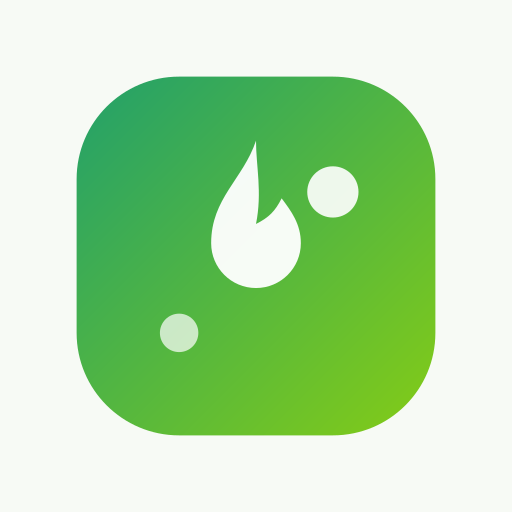
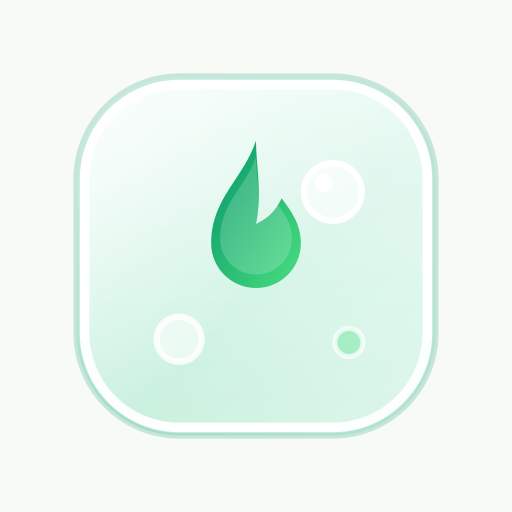
fix: AI analiz hata diyagnostiği + istemci indirme + demo kota; ana ikon beyaz-yeşil Glassmorphism
- ai-capture: kod bazlı hata mesajları (401/413/415/ağ), gerçek retry, iframe kamera ipucu
- downscaleImage: upload öncesi 1600px/JPEG0.85 (413 riski kalkar, hızlanır)
- analyze-photo: demo hesaplara 40/gün kota (ortak oturum bloklanması giderildi)
- icon.svg + 5 PNG: beyaz-yeşil Glassmorphism redesign; sw CACHE v3
- i18n tr/en 5 yeni anahtar (parite doğrulandı)

diff --git a/src/components/kaloriai/ai-capture.tsx b/src/components/kaloriai/ai-capture.tsx
@@ -31,6 +31,37 @@ type ErrorKind = "quota" | "notfood" | "generic" | null;
 /** Local date → YYYY-MM-DD */
 const fmtDate = (d: Date = new Date()) => d.toLocaleDateString("en-CA");
 
+// Upload öncesi istemci taraflı küçültme: telefon fotoğrafları (3-8MB) 1600px JPEG'e
+// iner → daha hızlı AI turu, 413 (10MB) riski ortadan kalkar, mobil veri tasarrufu.
+const MAX_EDGE_PX = 1600;
+const MAX_RAW_BYTES = 2.5 * 1024 * 1024;
+
+async function downscaleImage(b: Blob): Promise<Blob> {
+  if (b.type === "image/jpeg" && b.size <= MAX_RAW_BYTES) return b; // zaten ideal
+  let bmp: ImageBitmap | null = null;
+  try {
+    bmp = await createImageBitmap(b, { imageOrientation: "from-image" });
+  } catch {
+    return b; // decode edilemedi → orijinali dene (sunucu 415 verirse net hata)
+  }
+  const scale = Math.min(1, MAX_EDGE_PX / Math.max(bmp.width, bmp.height));
+  const w = Math.max(1, Math.round(bmp.width * scale));
+  const h = Math.max(1, Math.round(bmp.height * scale));
+  const canvas = document.createElement("canvas");
+  canvas.width = w;
+  canvas.height = h;
+  const ctx = canvas.getContext("2d");
+  if (!ctx) {
+    bmp.close();
+    return b;
+  }
+  ctx.drawImage(bmp, 0, 0, w, h);
+  bmp.close();
+  const out = await new Promise<Blob | null>((res) => canvas.toBlob(res, "image/jpeg", 0.85));
+  if (!out || out.size >= b.size) return b;
+  return out;
+}
+
 export function AiCapture({
   open,
   onClose,
@@ -51,6 +82,10 @@ export function AiCapture({
   const [previewUrl, setPreviewUrl] = useState<string | null>(null);
   const [cameraError, setCameraError] = useState(false);
   const [errorKind, setErrorKind] = useState<ErrorKind>(null);
+  const [errMsg, setErrMsg] = useState<string | null>(null);
+  const [isIframe] = useState(
+    () => typeof window !== "undefined" && window.self !== window.top
+  );
   const [meal, setMeal] = useState<string>(
     defaultMealType && (DEFAULT_MEAL_TYPES as readonly string[]).includes(defaultMealType)
       ? defaultMealType
@@ -103,9 +138,15 @@ export function AiCapture({
 
   const applyBlob = useCallback(
     (b: Blob) => {
-      setPreview(b);
-      setBlob(b);
       setErrorKind(null);
+      setErrMsg(null);
+      setPreview(b); // hemen önizle (büyütme arkada sürer)
+      downscaleImage(b)
+        .then((small) => {
+          setBlob(small);
+          if (small !== b) setPreview(small);
+        })
+        .catch(() => setBlob(b));
     },
     [setPreview]
   );
@@ -144,6 +185,7 @@ export function AiCapture({
     setPreview(null);
     setBlob(null);
     setErrorKind(null);
+    setErrMsg(null);
   };
 
   const analyze = useMutation({
@@ -176,8 +218,17 @@ export function AiCapture({
           setErrorKind("notfood");
           return;
         }
+        setErrorKind("generic");
+        // Kullanıcının ne yapacağını bilmesi için kod bazlı net mesajlar:
+        if (err.code === "UNAUTHORIZED" || err.status === 401) setErrMsg(dict.ai.errAuth);
+        else if (err.code === "FILE_TOO_LARGE" || err.status === 413) setErrMsg(dict.ai.errSize);
+        else if (err.code === "FILE_TYPE" || err.status === 415) setErrMsg(dict.ai.errType);
+        else setErrMsg(null); // → genel mesaj
+        return;
       }
+      // fetch ağ hatası (TypeError: Failed to fetch vb.)
       setErrorKind("generic");
+      setErrMsg(dict.ai.errNetwork);
     },
   });
 
@@ -234,6 +285,11 @@ export function AiCapture({
                 <ImagePlus className="h-6 w-6" aria-hidden />
                 <span className="text-xs">{dict.today.takePhotoSub}</span>
               </button>
+              {cameraError && isIframe && (
+                <p className="rounded-lg border border-amber-500/30 bg-amber-500/10 p-2.5 text-xs text-amber-600 dark:text-amber-400">
+                  {dict.ai.camIframeHint}
+                </p>
+              )}
               <input
                 ref={fileRef}
                 type="file"
@@ -297,7 +353,7 @@ export function AiCapture({
                       ? dict.ai.quotaDone
                       : errorKind === "notfood"
                         ? dict.ai.notFood
-                        : dict.ai.failed}
+                        : (errMsg ?? dict.ai.failed)}
                   </p>
                   {errorKind === "quota" ? (
                     <Button
@@ -311,7 +367,12 @@ export function AiCapture({
                     <Button
                       size="sm"
                       variant="outline"
-                      onClick={() => setErrorKind(null)}
+                      onClick={() => {
+                        setErrorKind(null);
+                        setErrMsg(null);
+                        // Gerçek yeniden deneme: görsel hâlâ seçiliyse aynı görselle tekrar dene
+                        if (blob) analyze.mutate();
+                      }}
                       className="min-h-[44px] gap-1.5 sm:min-h-9 sm:self-start"
                     >
                       <RotateCcw className="h-3.5 w-3.5" aria-hidden />

diff --git a/src/app/api/ai/analyze-photo/route.ts b/src/app/api/ai/analyze-photo/route.ts
@@ -9,6 +9,9 @@ import sharp from "sharp";
 
 const UPLOAD_ROOT = path.join(process.cwd(), "upload");
 const FREE_DAILY_LIMIT = 5;
+/** Demo hesapları ortak oturumla kullanıldığından paylaşılan kota tek kullanıcıyı bloklamasın */
+const DEMO_DAILY_LIMIT = 40;
+const isDemoUser = (email?: string | null) => !!email?.endsWith("@demo.kaloriai.app");
 
 export const runtime = "nodejs";
 export const maxDuration = 60;
@@ -55,13 +58,13 @@ Rules:
 {"items":[{"name":"...","grams":0,"kcal":0,"protein":0,"carbs":0,"fat":0,"fiber":0,"sugar":0,"sodium":0,"satFat":0,"confidence":0,"alternatives":["..."]}],"overallConfidence":0,"clarifyingQuestion":"..."}`;
 }
 
-async function checkQuota(userId: string): Promise<void> {
+async function checkQuota(userId: string, limit: number = FREE_DAILY_LIMIT): Promise<void> {
   const sub = await db.subscription.findUnique({ where: { userId } });
   const premium = sub?.tier === "premium" && (!sub.cancelledAt || (sub.renewsAt && sub.renewsAt > new Date()));
   if (premium) return;
   const date = localDateStr();
   const quota = await db.usageQuota.findUnique({ where: { userId_date: { userId, date } } });
-  if ((quota?.aiCount ?? 0) >= FREE_DAILY_LIMIT) throw new ApiError("QUOTA_EXCEEDED", 429);
+  if ((quota?.aiCount ?? 0) >= limit) throw new ApiError("QUOTA_EXCEEDED", 429);
 }
 
 async function bumpQuota(userId: string): Promise<void> {
@@ -103,7 +106,7 @@ export async function POST(req: Request) {
     if (!allowed.includes(file.type)) throw new ApiError("FILE_TYPE", 415);
     if (file.size > 10 * 1024 * 1024) throw new ApiError("FILE_TOO_LARGE", 413);
 
-    await checkQuota(user.id);
+    await checkQuota(user.id, isDemoUser(user.email) ? DEMO_DAILY_LIMIT : FREE_DAILY_LIMIT);
 
     // compress + persist privately per user
     const buf = Buffer.from(await file.arrayBuffer());
@@ -166,7 +169,7 @@ export async function POST(req: Request) {
       items: result.items,
       overallConfidence: result.overallConfidence,
       clarifyingQuestion: result.clarifyingQuestion ?? null,
-      quotaLeft: Math.max(0, FREE_DAILY_LIMIT - (quota?.aiCount ?? 1)),
+      quotaLeft: Math.max(0, (isDemoUser(user.email) ? DEMO_DAILY_LIMIT : FREE_DAILY_LIMIT) - (quota?.aiCount ?? 1)),
     });
   } catch (e) {
     return errorResponse(e);

diff --git a/src/lib/i18n/tr.ts b/src/lib/i18n/tr.ts
@@ -313,6 +313,11 @@ export const tr = {
     quotaLeft: "Bugün kalan ücretsiz analiz",
     quotaDone: "Ücretsiz analiz hakkın doldu. Premium'a geç veya yarın tekrar dene.",
     failed: "Analiz başarısız oldu",
+    errAuth: "Oturum doğrulanamadı — sayfayı yenileyip tekrar deneyin.",
+    errSize: "Görsel çok büyük (10MB sınırı). Kamerayla çekmeyi deneyin.",
+    errType: "Desteklenmeyen dosya türü — yalnızca JPG/PNG görsel.",
+    errNetwork: "Bağlantı kurulamadı — internet erişiminizi kontrol edip tekrar deneyin.",
+    camIframeHint: "Önizleme paneli kamera erişimini engelleyebilir — 'Fotoğraf seç' ile deneyin veya uygulamayı yeni sekmede açın.",
     lowConfQ: "Pilavla birlikte yağ kullanıldı mı?",
     sources: "Tespit edilenler",
     notFood: "Bu fotoğrafta yemek algılanamadı",

diff --git a/src/lib/i18n/en.ts b/src/lib/i18n/en.ts
@@ -315,6 +315,11 @@ export const en: Dictionary = {
     quotaLeft: "Free analyses left today",
     quotaDone: "You've used your free analyses. Upgrade to Premium or try again tomorrow.",
     failed: "Analysis failed",
+    errAuth: "Session could not be verified — refresh the page and try again.",
+    errSize: "Image is too large (10MB limit). Try taking a photo with the camera instead.",
+    errType: "Unsupported file type — JPG/PNG images only.",
+    errNetwork: "Could not connect — check your internet connection and try again.",
+    camIframeHint: "The preview panel may block camera access — try 'Choose photo' or open the app in a new tab.",
     lowConfQ: "Was oil used with the rice?",
     sources: "Detected items",
     notFood: "No food detected in this photo",

diff --git a/public/sw.js b/public/sw.js
@@ -4,7 +4,7 @@
  * - API requests: never cached (always network)
  * - Web Push (VAPID): background notifications + click-to-open
  */
-const CACHE = "kaloriai-v2";
+const CACHE = "kaloriai-v3";
 const PRECACHE = [
   "/",
   "/offline.html",
